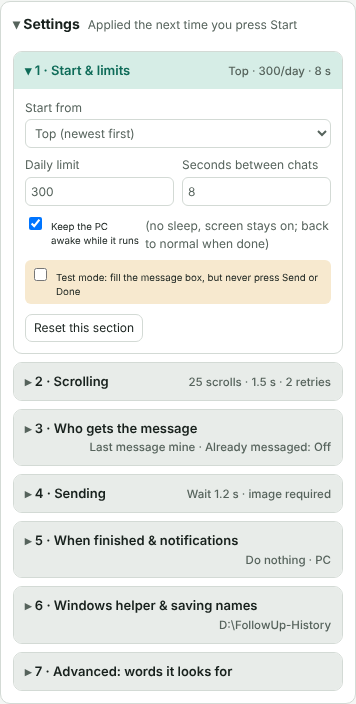
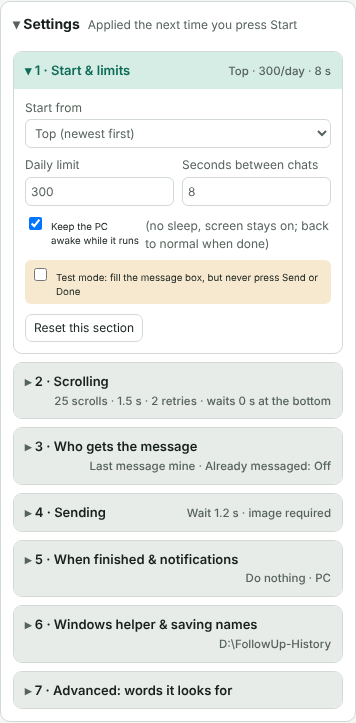
1.8.1: Start from Bottom (all the way) and wait before deciding it's the bottom
Claude-Session: https://claude.ai/code/session_01AbmNfk2RbeYzTEgTF7NAcj

diff --git a/tests/test_engine.py b/tests/test_engine.py
@@ -168,7 +168,7 @@ def test_bottom_order_scrolls_down_first_then_goes_up(page):
     # Only 12 of 22 chats were loaded at the start; it scrolled to the very bottom first.
     reasons = [s.get("reason", "") for s in res["states"]]
     assert any("Scrolling to the bottom" in r for r in reasons)
-    assert "Reached the bottom of the inbox. Sending from the bottom up." in reasons
+    assert any(r.startswith("Reached the bottom of the inbox (") and r.endswith("Sending from the bottom up.") for r in reasons)
     # Then it worked upward: the last chat first; "Julie Lucas" (can't message) moved to Done on the way.
     assert [s["name"] for s in m["sent"]] == ["Evah August Iamu", "Joshua Gerua", "Alois Mabep"]
     names = {i: n for i, n, _ in m["names"]}
@@ -357,12 +357,12 @@ def test_scroll_settings_count_chats_retries_and_button(page):
     assert r["reachedGoal"] and r["chats"] >= 15 and page.evaluate("__mock.loaded") == 18
     page.reload(); page.evaluate(__import__("conftest").ENGINE_JS)
     # S5 off: the button ignores the scroll count and goes all the way
-    r = page.evaluate(tool, {"scrollHow": "count", "scrollCount": 1, "scrollWaitSec": 0, "buttonUsesScrollSettings": False})
+    r = page.evaluate(tool, {"scrollHow": "count", "scrollCount": 1, "scrollWaitSec": 0, "buttonUsesScrollSettings": False, "bottomWaitSec": 0})
     assert r["reachedEnd"] and r["rows"] == 22
     page.reload(); page.evaluate(__import__("conftest").ENGINE_JS)
     # S3 with no unstick retries, a list that gets stuck looks like the bottom
     page.evaluate("__mock.flags.sticky = true")
-    r = page.evaluate(tool, {"scrollHow": "all", "scrollWaitSec": 0, "unstickRetries": 0})
+    r = page.evaluate(tool, {"scrollHow": "all", "scrollWaitSec": 0, "unstickRetries": 0, "bottomWaitSec": 0})
     assert r["reachedEnd"] and page.evaluate("__mock.loaded") < 22
     page.reload(); page.evaluate(__import__("conftest").ENGINE_JS)
     # S2 wait between scrolls slows each scroll down

diff --git a/tests/test_extension.py b/tests/test_extension.py
@@ -530,7 +530,7 @@ def test_auto_replies_ask_first_then_automatic(ext):
 
     # Skip the warm one, send the hot one
     panel.locator("#pending li.warm button:has-text('Skip')").click()
-    panel.wait_for_function("document.getElementById('pCount').textContent === '1'")
+    panel.wait_for_selector("#pCount:text-is('1')")
     panel.click("#rSendAll")
     inbox.wait_for_function("__mock.sent.length === 4", timeout=60_000)
     last = inbox.evaluate("__mock.sent[3]")
@@ -584,7 +584,7 @@ def test_settings_fold_into_sections_with_summaries_and_reset(ext):
     # First time: only "Start & limits" is open; every section shows its values on one line
     assert panel.evaluate("[...document.querySelectorAll('details.sec')].map(d => d.open)") == [True] + [False] * 6
     assert panel.inner_text("#sum_start") == "Top · 300/day · 8 s"
-    assert panel.inner_text("#sum_scroll") == "25 scrolls · 1.5 s · 2 retries"
+    assert panel.inner_text("#sum_scroll") == "25 scrolls · 1.5 s · 2 retries · waits 0 s at the bottom"
     assert panel.inner_text("#sum_who") == "Last message mine · Already messaged: Off"
     assert panel.inner_text("#sum_helper") == "D:\\FollowUp-History"
     panel.locator("#settingsBox").screenshot(path=str(SHOTS / "option-a-settings-sections.png"))

diff --git a/desktop/bridge.py b/desktop/bridge.py
@@ -24,6 +24,7 @@ INBOX_URL = "https://business.facebook.com/latest/inbox/all/"
 ENGINE_KEYS = [
     "fallbackName", "blockedTexts", "excludeNames", "stopTexts", "order", "onlyIfLastFromMe",
     "moveSentToDone", "testMode", "stepDelayMs", "betweenChatsSec", "dailyCap", "imageRequired",
+    "bottomWaitSec",
 ]
 def asset_id(url):
     """The Facebook Page id in a Business Suite link (asset_id=…), or None."""
@@ -69,6 +70,7 @@ DEFAULT_SETTINGS = {
     "stepDelayMs": 1200,
     "betweenChatsSec": 8,
     "dailyCap": 300,
+    "bottomWaitSec": 60,  # before deciding it's the bottom of the inbox, keep trying this long
     "hotkeys": {"toggle_run": "Ctrl+Shift+1", "stop": "Ctrl+Shift+2", "toggle_scroll": "Ctrl+Shift+3", "scroll_latest": "Ctrl+Shift+4"},
 }
 COUNTER = {"SENT": "sent", "EXCLUDED": "excluded", "SKIPPED": "skipped", "FAILED": "failed",

diff --git a/tests/test_desktop_ui.py b/tests/test_desktop_ui.py
@@ -16,7 +16,7 @@ def test_window_start_button_runs_campaign(tmp_path):
     from bridge import Store
 
     store = Store(tmp_path)
-    store.settings.update({"image_path": str(TINY_PNG), "stepDelayMs": 300})
+    store.settings.update({"image_path": str(TINY_PNG), "stepDelayMs": 300, "bottomWaitSec": 0})
     root = tk.Tk()
     app = fd.App(root, store)
     app.ctl.open_browser(url=INBOX_URL, channel=None, headless=True,
@@ -50,7 +50,7 @@ def test_window_shortcuts_toggle_run_and_scroll(tmp_path):
     from bridge import Store
 
     store = Store(tmp_path)
-    store.settings.update({"stepDelayMs": 300, "betweenChatsSec": 2, "template": "Hi {first_name}!"})
+    store.settings.update({"stepDelayMs": 300, "betweenChatsSec": 2, "template": "Hi {first_name}!", "bottomWaitSec": 0})
     root = tk.Tk()
     app = fd.App(root, store)
 

diff --git a/tests/test_desktop.py b/tests/test_desktop.py
@@ -18,7 +18,7 @@ def app(tmp_path):
     events = []
     store = Store(tmp_path)
     store.settings.update({"template": "Hi {first_name}!\nPromo ends Friday.", "image_path": str(TINY_PNG),
-                           "betweenChatsSec": 0, "stepDelayMs": 300, "dailyCap": 4})
+                           "betweenChatsSec": 0, "stepDelayMs": 300, "dailyCap": 4, "bottomWaitSec": 0})
     c = Controller(store, lambda kind, data: events.append((kind, data)))
     c.open_browser(url=INBOX_URL, channel=None, headless=True,
                    viewport={"width": 1400, "height": 900}, setup=serve).result(60)

diff --git a/README.md b/README.md
@@ -63,6 +63,19 @@ Safety rules built into both versions:
    **Open my inbox** takes you straight there, and the app refuses to run on a different Facebook Page
    by mistake. The badge at the top says **Ready** when it's connected.
 
+## New in 1.8.1
+
+* **New "Start from" choice (Settings → 1): "Bottom: scroll down until nothing more loads, then send going up".**
+  FollowUp first scrolls the inbox all the way down, ignoring the "How far" limit, and then starts sending
+  from the very bottom chat going up. The sending itself is exactly the same as before.
+* **Doesn't give up on scrolling too early (Settings → 2):** "Before deciding it's the bottom, keep trying (sec)",
+  60 by default. When chats stop loading, FollowUp nudges the list up a little and back down every 10 seconds
+  until this time runs out. Set 0 for the old behavior.
+* The old **"Bottom"** choice still stops after the number of scrolls set in "How far".
+
+![Start from: Bottom (all the way)](docs/screenshots/option-a-start-bottom-all.png)
+![Keep trying at the bottom](docs/screenshots/option-a-scroll-patience.png)
+
 ## New in 1.8.0
 
 * **Log tab (run diary).** Everything FollowUp does, with times: each run's start (with the settings used),
